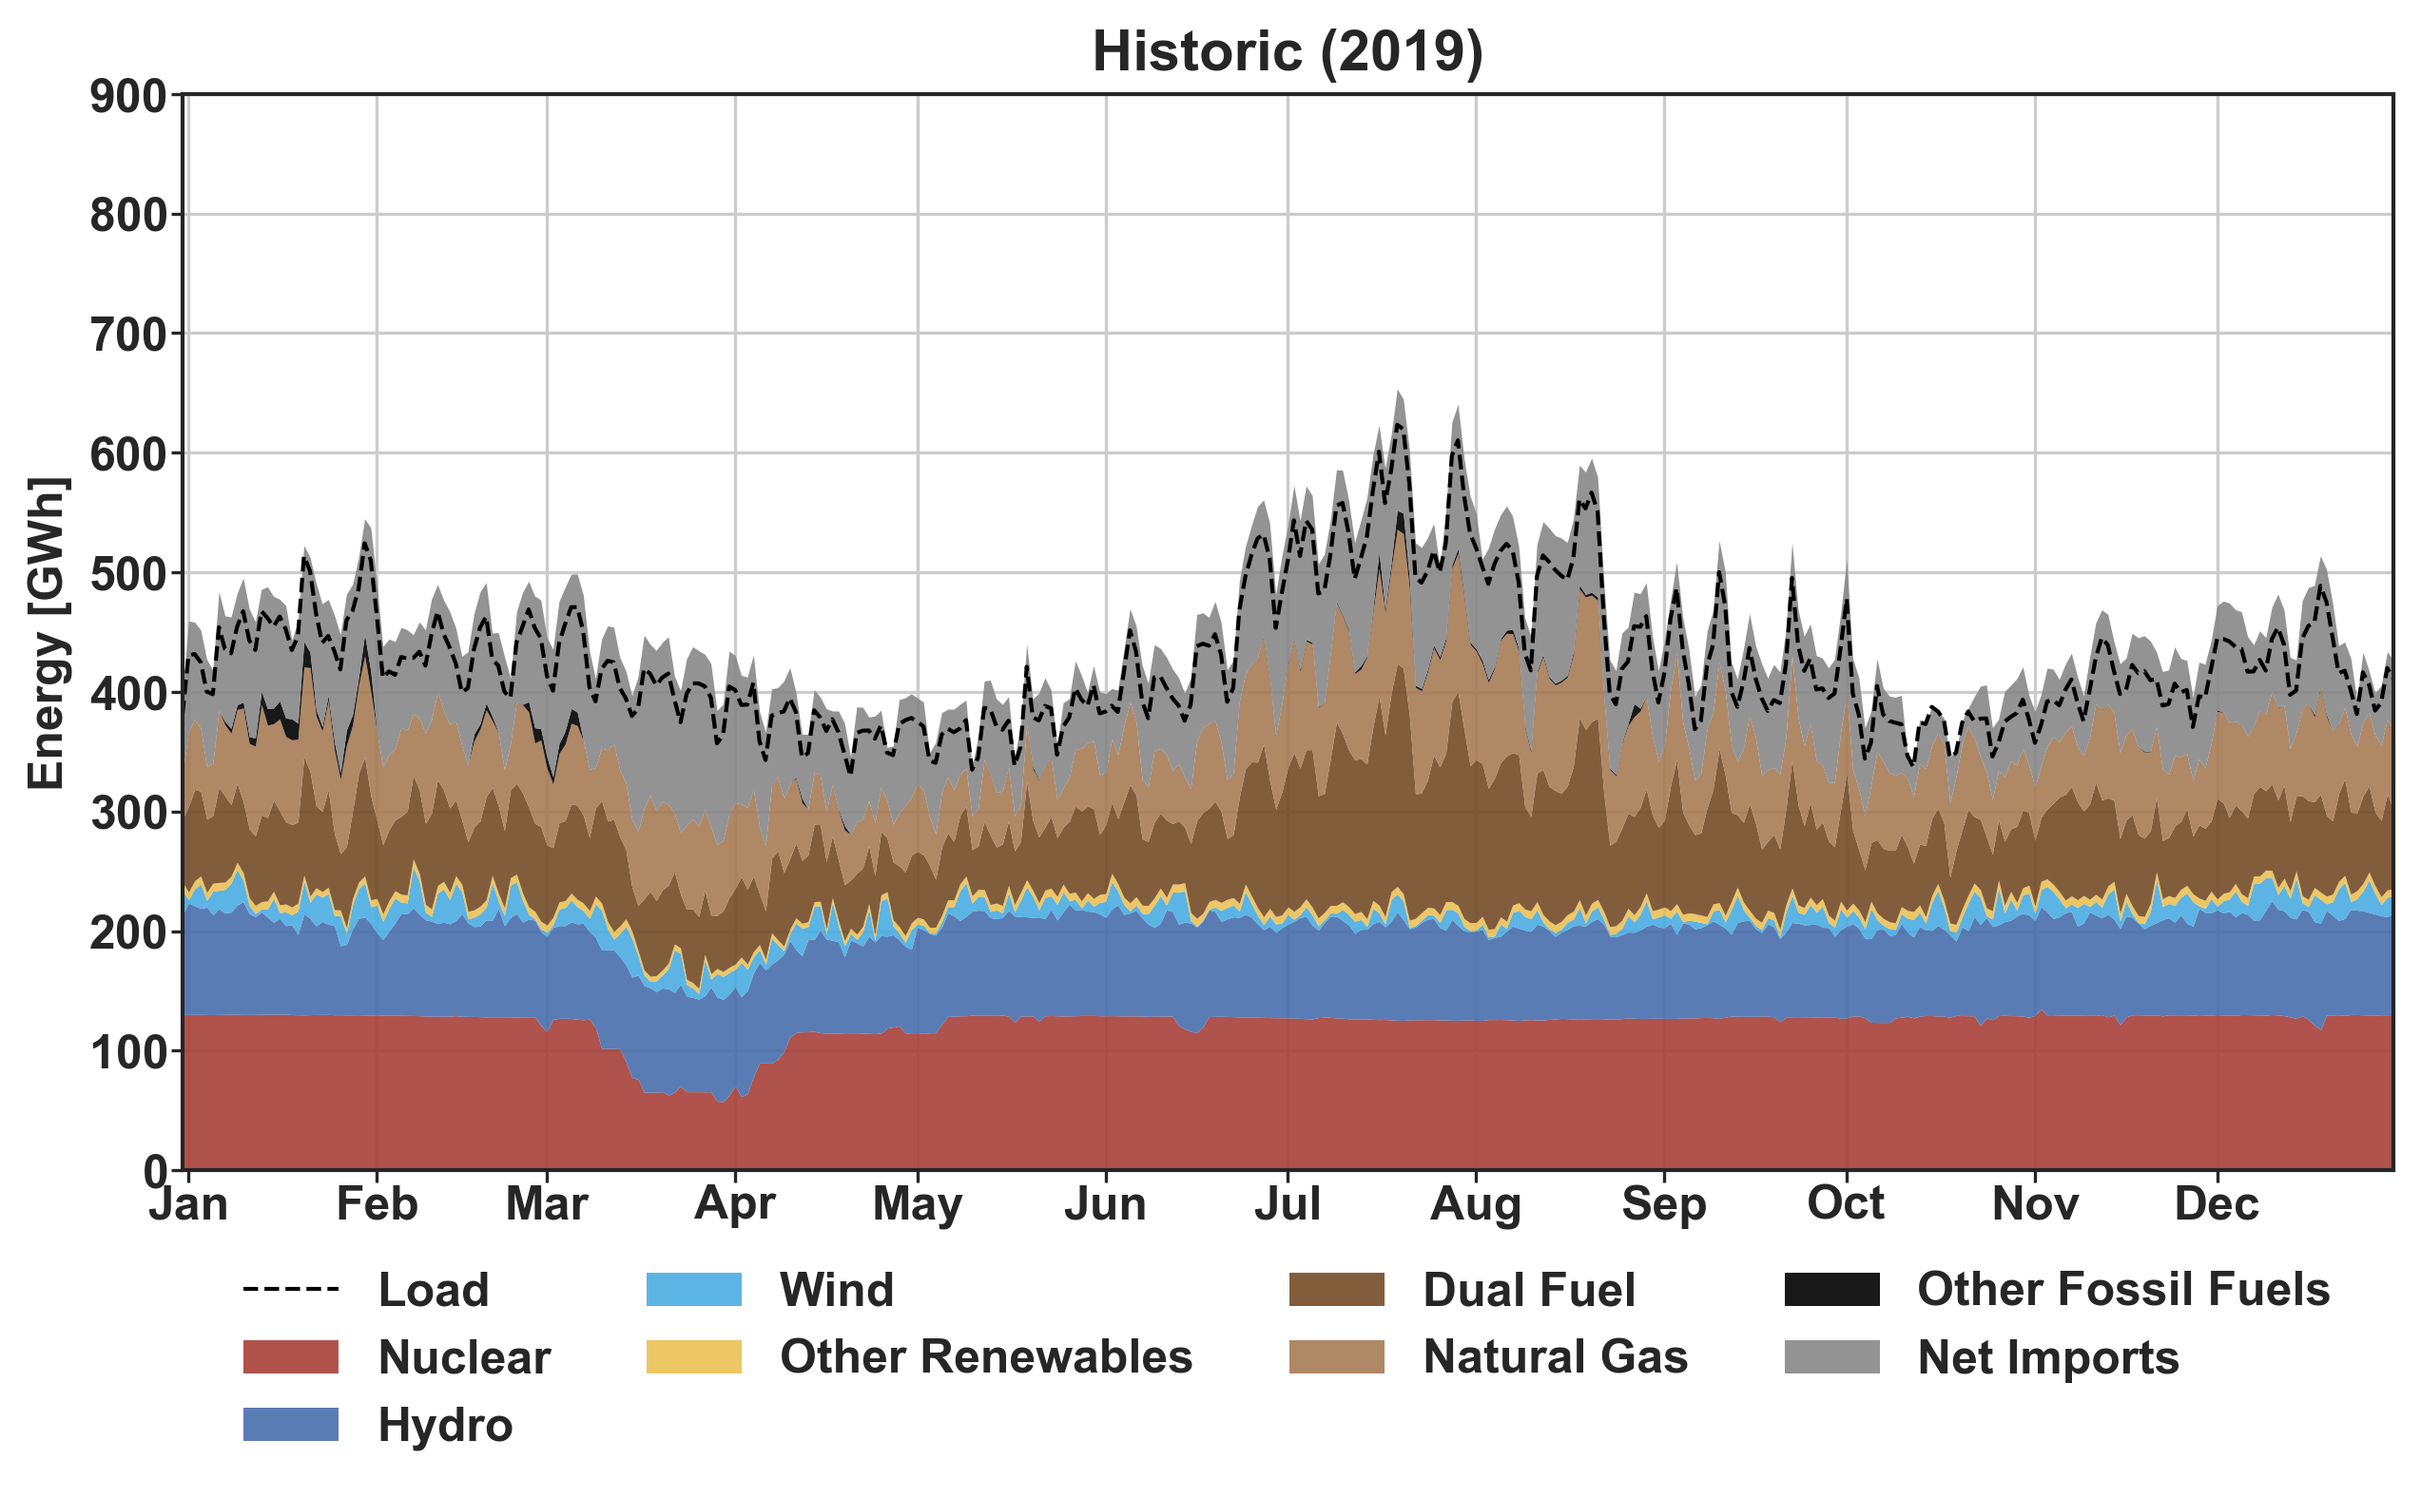
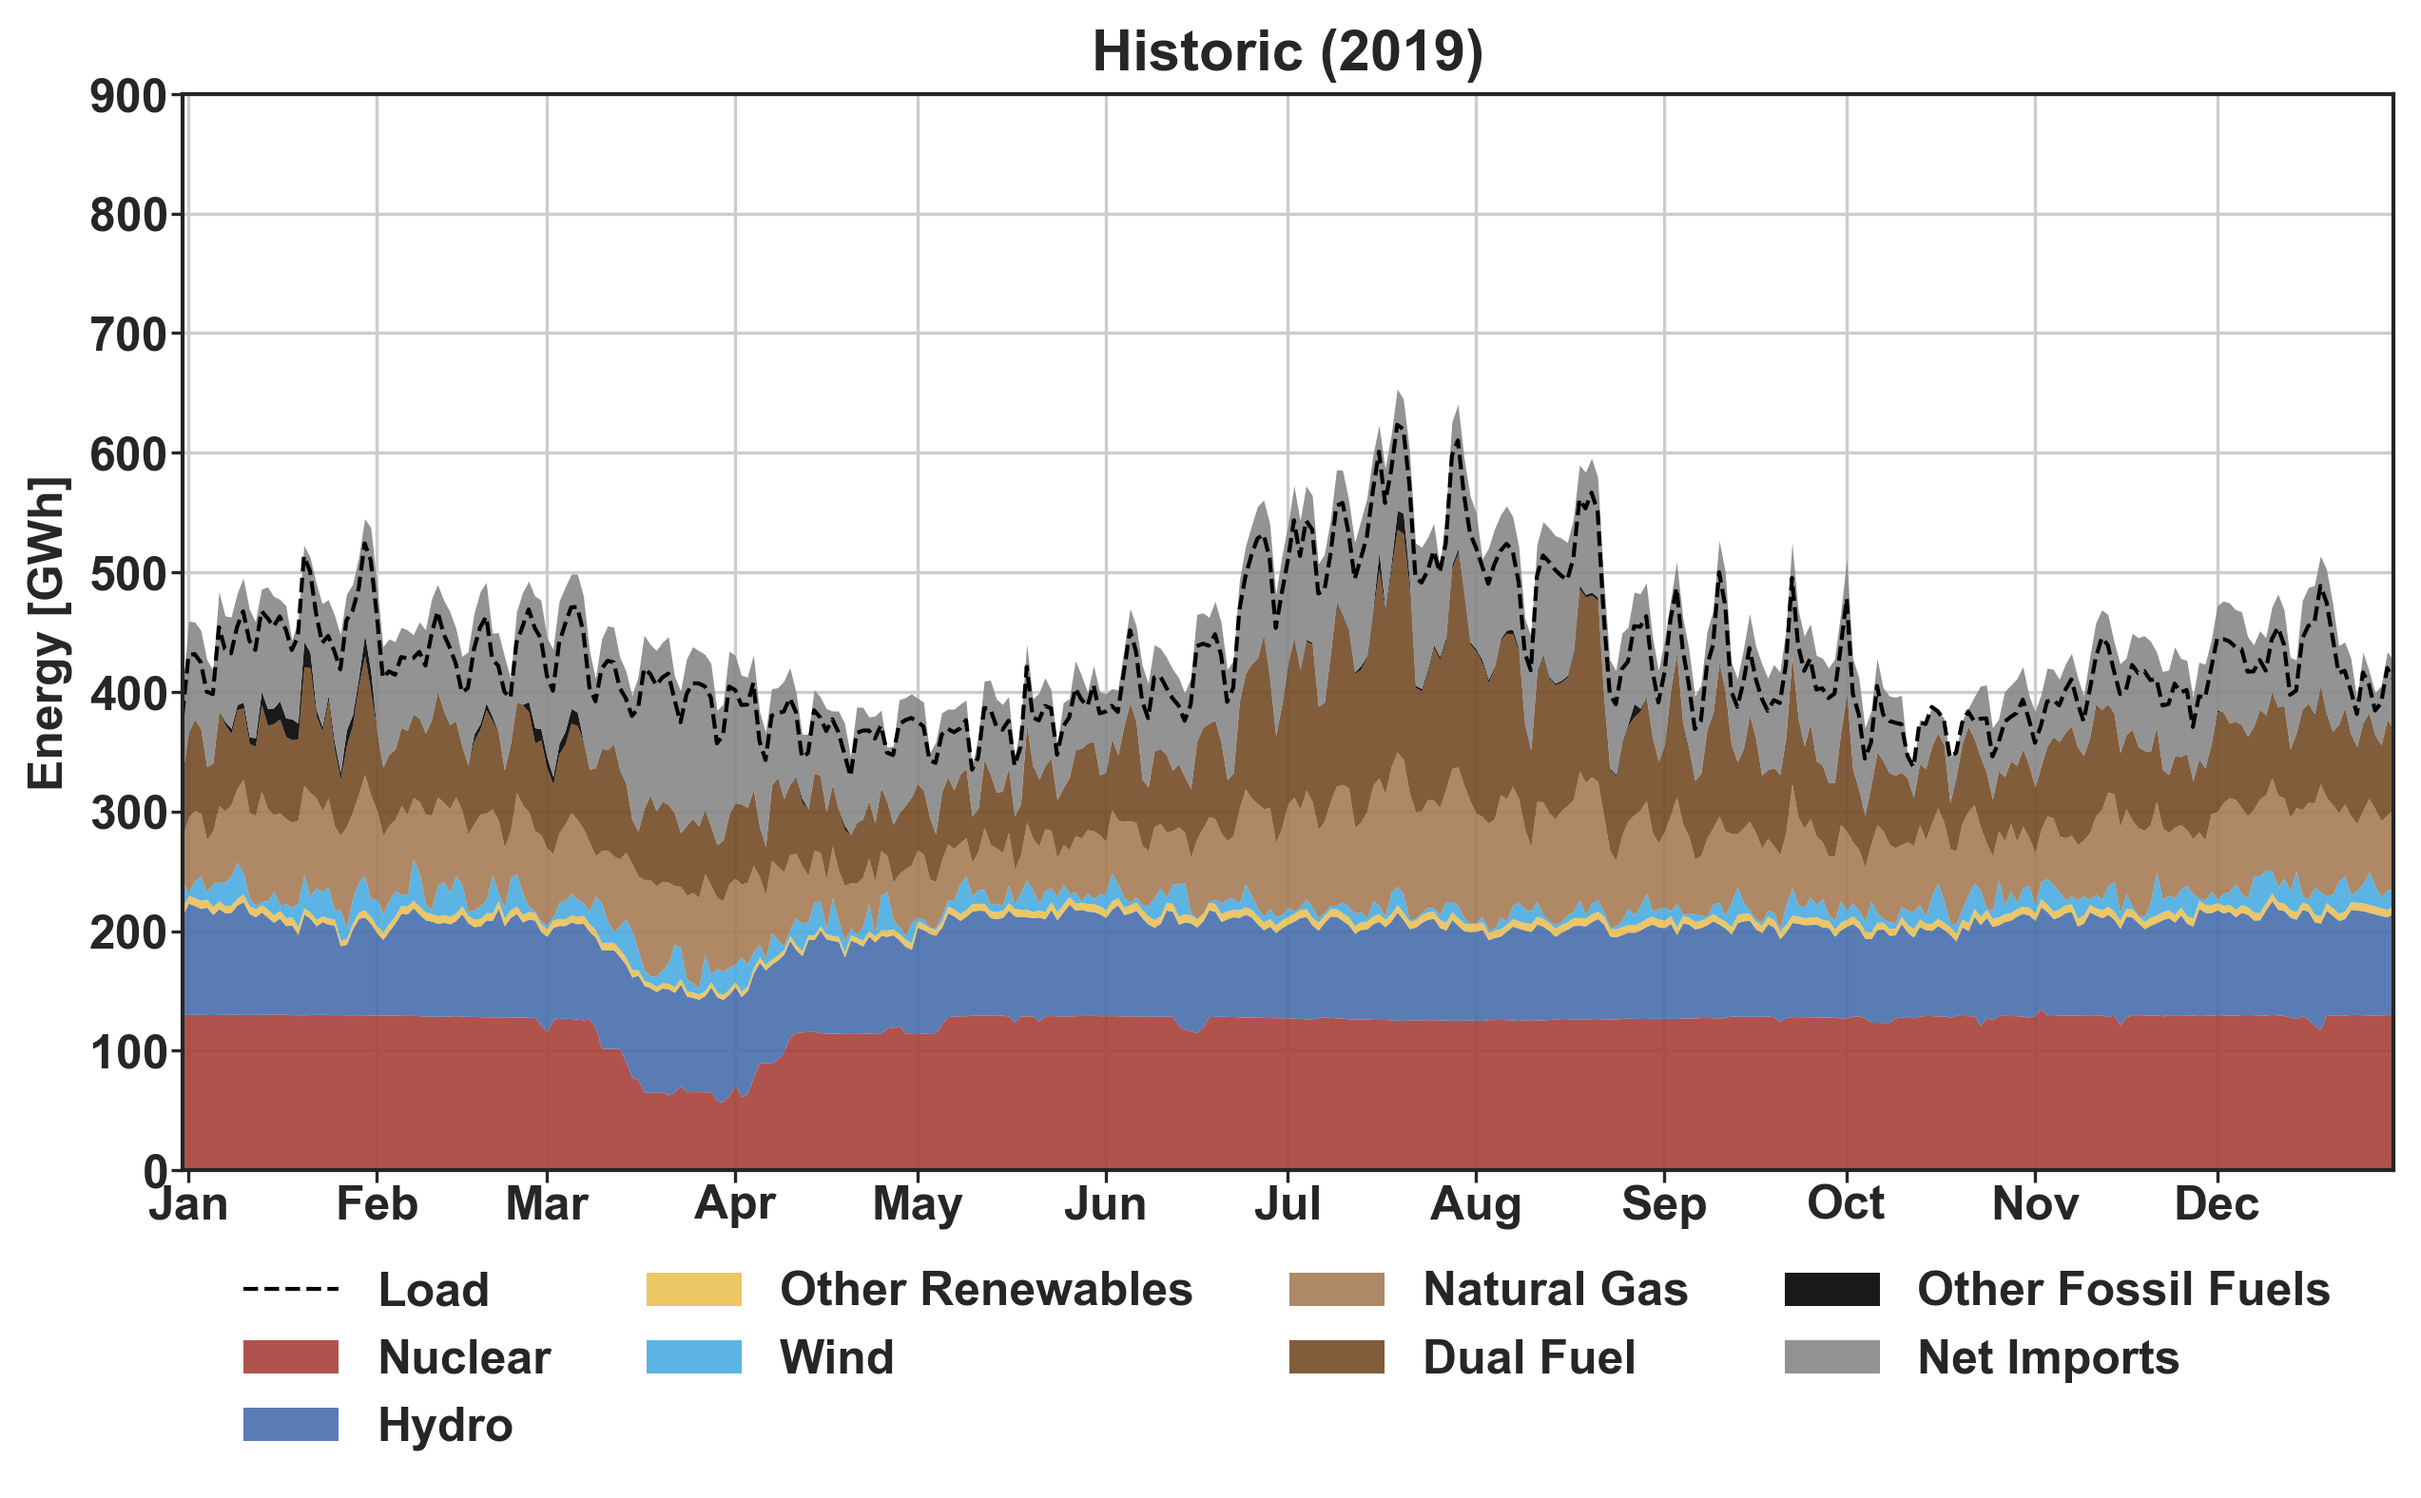
fixed order of display of techs in vis to group carbon free resources together

Changed region(s): [[0.0621, 0.3731, 0.9929, 0.684], [0.2482, 0.8395, 0.4965, 0.9327], [0.5275, 0.8395, 0.7137, 0.9327]]

diff --git a/nyisovis.py b/nyisovis.py
@@ -46,7 +46,8 @@ class NYISOVis:
         fuel_mix['Net Imports'] = imports
             
         #Plot Generation
-        df = fuel_mix[['Nuclear','Hydro','Wind','Other Renewables','Dual Fuel', 'Natural Gas','Other Fossil Fuels', 'Net Imports']] #define order 
+        order = ['Nuclear','Hydro','Other Renewables','Wind','Natural Gas','Dual Fuel','Other Fossil Fuels', 'Net Imports']
+        df = fuel_mix[order] 
         fig, ax = plt.subplots(figsize=(10,5), dpi=300)
         plt.title(f'Historic ({year})')
         df.plot.area(ax=ax,
@@ -103,7 +104,7 @@ class NYISOVis:
     
         #Calculating Energy Fraction [%]
         ef = fuel_mix.div(load, axis='index') * 100
-        carbonfree_sources = ['Nuclear','Hydro','Wind','Other Renewables',]
+        carbonfree_sources = ['Nuclear','Hydro','Other Renewables','Wind']
         ef['percent_carbon_free'] = ef[carbonfree_sources].sum(axis='columns')
                     
         #Plot Generation
@@ -195,18 +196,17 @@ class NYISOVis:
                     color=[LEGEND_DEETS.get(x, '#333333') for x in df.columns],
                     alpha=0.9)
         #Averages and Goals
-
-        # # Carbon Free Line
-        # perc = stats[f'Historic ({year}) [% of Load]'].loc['Total Carbon-Free Generation']
-        # plt.axhline(y=perc, color='k', linestyle='dashed',
-        #             label='CO$_2$e-Free Generation')
-        # plt.text(-0.0755, perc/100,'{:.0f}'.format(perc), transform=ax.transAxes)
-        # # Carbon Free + Imports Line
-        # perc = stats[f'Historic ({year}) [% of Load]'].loc[['Total Carbon-Free Generation',
-        #                                             'Net Imports']].sum()
-        # plt.axhline(y=perc, color='k', linestyle='dotted',
-        #             label='CO$_2$e-Free Generation + Net Imports')
-        # plt.text(-0.0755, perc/100,'{:.0f}'.format(perc), transform=ax.transAxes)
+        # Carbon Free Line
+        perc = stats[f'Historic ({year}) [% of Load]'].loc['Total Carbon-Free Generation']
+        plt.axhline(y=perc, color='k', linestyle='dashed',
+                    label='CO$_2$e-Free Generation')
+        plt.text(-0.0755, perc/100,'{:.0f}'.format(perc), transform=ax.transAxes)
+        # Carbon Free + Imports Line
+        perc = stats[f'Historic ({year}) [% of Load]'].loc[['Total Carbon-Free Generation',
+                                                    'Net Imports']].sum()
+        plt.axhline(y=perc, color='k', linestyle='dotted',
+                    label='CO$_2$e-Free Generation + Net Imports')
+        plt.text(-0.0755, perc/100,'{:.0f}'.format(perc), transform=ax.transAxes)
         
         #Legend
         handles, labels = ax.get_legend_handles_labels()
@@ -221,6 +221,10 @@ class NYISOVis:
             
     def fig_carbon_free_years(years):
         """Todo: stacked area chart over time using nyisostat annual summary"""
+        return
+    
+    def net_load():
+        """Todo: Load vs Net Load Shape"""
         return
             
 if __name__ == '__main__':

diff --git a/nyisostat.py b/nyisostat.py
@@ -26,13 +26,13 @@ class NYISOStat:
         fuel_mix = fuel_mix.rename(columns={0:f'Historic ({year})'}).sort_values(f'Historic ({year})', ascending=False)
         
         #reorder carbon free resources first
-        carbon_free_resources = ['Nuclear','Hydro','Wind','Other Renewables']
+        carbon_free_resources = ['Nuclear','Hydro','Other Renewables','Wind']
         df = fuel_mix.loc[carbon_free_resources]
         df = pd.concat([df, fuel_mix.loc[[ind for ind in fuel_mix.index if ind not in carbon_free_resources]]])
         
         df.loc['Total Generation'] = fuel_mix.sum()
-        df.loc['Total Renewable Generation'] = fuel_mix.loc[['Hydro','Wind','Other Renewables']].sum()
-        df.loc['Total Carbon-Free Generation'] = fuel_mix.loc[['Nuclear','Hydro','Wind','Other Renewables']].sum()
+        df.loc['Total Renewable Generation'] = fuel_mix.loc[['Hydro','Other Renewables','Wind']].sum()
+        df.loc['Total Carbon-Free Generation'] = fuel_mix.loc[['Nuclear','Hydro','Other Renewables','Wind']].sum()
         df.loc['Net Imports'] = imports
         df.loc['Total Generation + Net Imports'] = df.loc['Net Imports'] + df.loc['Total Generation']
         df.loc['Load'] = load
